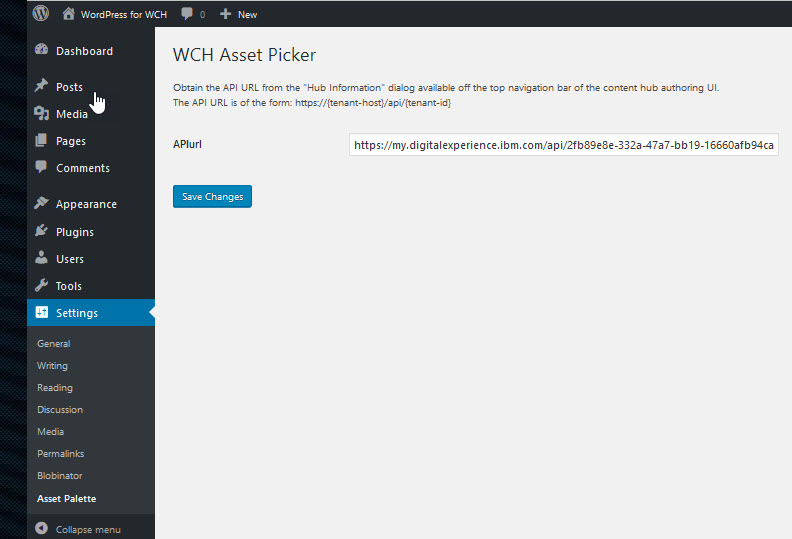
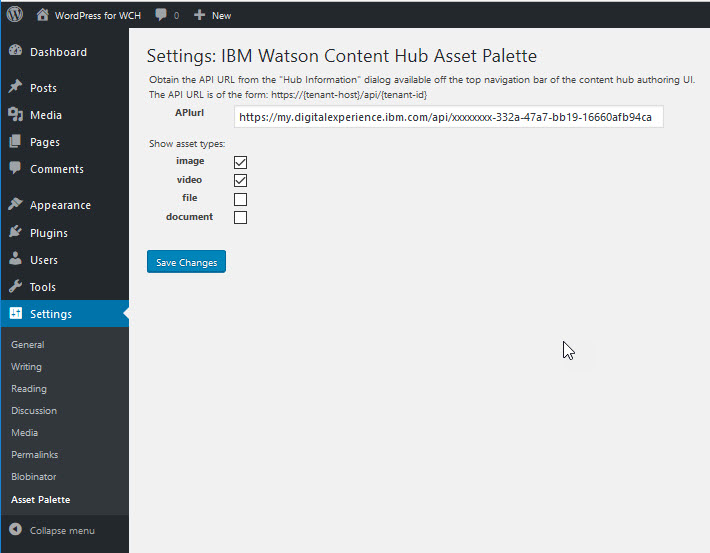
rename and readme update

Changed region(s): [[0.0, 0.0, 1.0, 1.0], [0.7746, 0.6234, 0.8056, 0.6531]]

diff --git a/settings.php b/settings.php
@@ -67,7 +67,7 @@ function register_my_cool_plugin_settings() {
 function my_cool_plugin_settings_page() {
 ?>
 <div class="wrap">
-<h1>WCH Asset Picker</h1>
+<h1>Settings: IBM Watson Content Hub Asset Palette</h1>
 
 <form method="post" action="options.php">
     <?php settings_fields( 'wch-assetpicker-settings-group' ); ?>
@@ -84,7 +84,14 @@ function my_cool_plugin_settings_page() {
         <tr valign="top"><th scope="row">document</th><td><input name="type-document" type="checkbox" value="1" <?php checked( '1', get_option( 'type-document' ) ); ?> /></td></tr>
     </table>    
     <?php submit_button(); ?>
-
 </form>
+<table align="right" width=100%><tr align="right" width=100%><td align="right" width=100% style="display:none;">
+<form action="https://www.paypal.com/cgi-bin/webscr" method="post" target="_top">
+<input type="hidden" name="cmd" value="_s-xclick">
+<input type="hidden" name="hosted_button_id" value="NWNW5TXBRVJNQ">
+<input type="image" src="https://www.paypalobjects.com/de_DE/DE/i/btn/btn_donateCC_LG.gif" border="0" name="submit" alt="WordPress Plugin donation for IBM Watson Content Hub Asset Palette.">
+<img alt="" border="0" src="https://www.paypalobjects.com/de_DE/i/scr/pixel.gif" width="1" height="1">
+</form>
+</td></tr></table>
 </div>
 <?php } ?>

diff --git a/README.md b/README.md
@@ -37,7 +37,7 @@ As soon the Plugin is activated it will open up automatically on the Post/Pages 
 
 ## Features
 - Use the WYSIWYG WordPress editor to insert IBM Watson Content Hub hosted pictures.
-- Images get integrated using a IMG tag
+- Images get integrated using a IMG tag (jpeg, jpg, gif, png)
 - Videos get integrated using a LINK
 
 ### Known limitations
